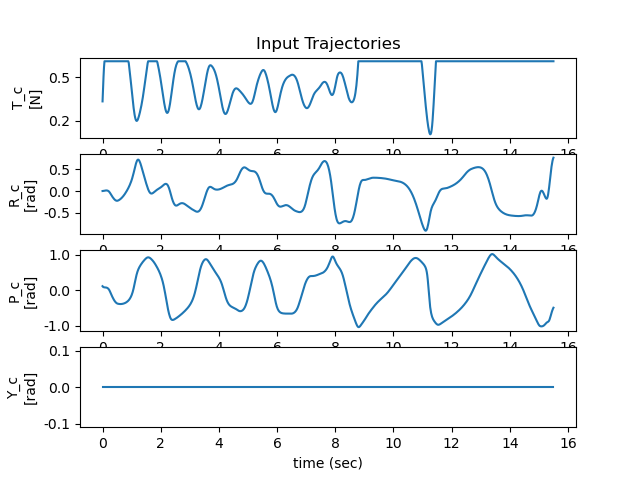
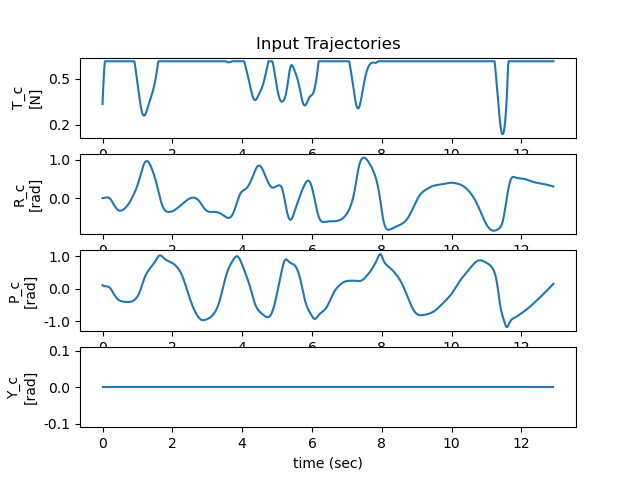
obstacle course updated with fast

diff --git a/examples/pid/obstacle_course_generator_v4_1_ss.py b/examples/pid/obstacle_course_generator_v4_1_ss.py
@@ -489,8 +489,8 @@ if __name__ == "__main__":
         (0.9, -1.1, 1.0), #22
         (-0.1, -1.1, 1.0), #23
         (-0.4, -0.5, 1.025, 1.2), #24
-        (-0.9, 0.0, 1.05), #25
-        (-1.4, 0.0, 1.075), #26
+        (-0.9, -0.05, 1.05), #25
+        (-1.4, -0.05, 1.075), #26
         (-1.6, -0.5, 1.1), #27
         (-1.4, -1.1, 1.1), #28
         (-1.0, -1.0, 1.075), #29
@@ -498,17 +498,17 @@ if __name__ == "__main__":
         (-0.2, -0.5, 1.0), #31
         (-0.1, -0.4, 0.95), #32
         (0.2, 0.0, 0.8, 1.2), #33
-        (-0.3, 0.35, 0.7, 1.3), #34
-        (-0.9, 0.4, 0.65, 1.5), #35
-        (-1.2, 0.35, 0.7, 1.5), #36
-        (-1.4, 0.05, 0.8, 1.3), #37
-        (-1.4, -0.2, 0.95, 1.1), #38
-        (-1.0, -0.4, 1.1, 1.1), #39
-        (-0.25, -0.25, 1.15), #40
-        (0.6, 0.1, 1.1), #41
-        (0.6, 0.5, 1.1), #42
-        (0.6, 1.0, 1.0), #43
-        (0.0, 1.0, 1.0)  #44
+        (-0.3, 0.35, 0.75, 1.3), #34
+        (-0.9, 0.4, 0.7, 1.5), #35
+        (-1.2, 0.35, 0.75, 1.5), #36
+        (-1.5, 0.05, 0.85, 1.3), #37
+        (-1.5, -0.2, 1.0, 1.2), #38
+        (-1.0, -0.4, 1.1, 1.2), #39
+        (-0.25, -0.25, 1.2), #40
+        (0.45, 0.1, 1.15), #41
+        (0.5, 0.5, 1.1), #42
+        (0.5, 1.0, 1.0), #43
+        (0.5, 1.0, 1.0)  #44
     ]
     # section2_total_time = 7.0  # seconds
     section2_total_time = 5.5  # seconds
@@ -542,11 +542,11 @@ if __name__ == "__main__":
     # Section 3: Speed Test
     section3 = TrajectoryBuilder()
     section3_wps = [
-        (-1.0, 1.0, 1.0),
+        (-1.1, 1.1, 1.0),
         (-1.6, 0.6, 1.0),
         (-1.6, -0.6, 1.0),
-        (-1.0, -1.0, 1.0),
-        (1.0, -1.0, 1.0),
+        (-1.1, -1.1, 1.0),
+        (1.1, -1.1, 1.0),
         (1.6, -0.6, 1.0),
         (1.6, 0.6, 1.0),
     ]
@@ -559,11 +559,11 @@ if __name__ == "__main__":
     final_trajectory = TrajectoryBuilder()
     # Section 1
     final_trajectory.concatenate(section1, time_offset=0, label="Section: Randomized String Obstacles")
-    offset_1 = section1.waypoints[-1].t + 0.25  # No extra time step needed
+    offset_1 = section1.waypoints[-1].t + 0.5  # No extra time step needed
 
     # Section 2
     final_trajectory.concatenate(section2, time_offset=offset_1, label="Section 2: Fixed Strings")
-    offset_2 = offset_1 + section2.waypoints[-1].t - section2.waypoints[0].t + 0.25 # accumulate correctly
+    offset_2 = offset_1 + section2.waypoints[-1].t - section2.waypoints[0].t + 0.5 # accumulate correctly
 
     # Section 3
     final_trajectory.concatenate(section3, time_offset=offset_2, label="Section 3: Disturbance Obstacles")
